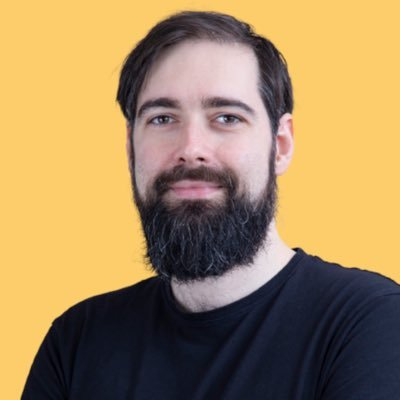
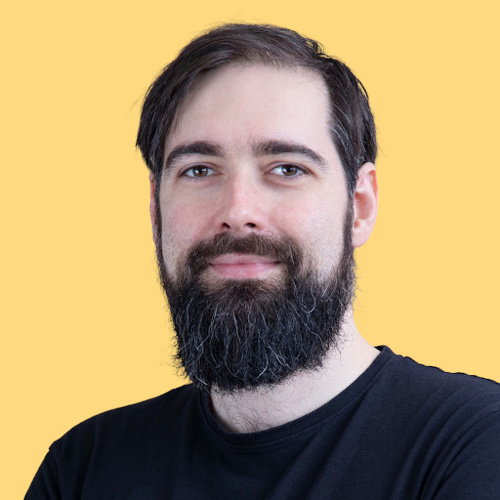
use photo-yellow

diff --git a/about.md b/about.md
@@ -3,7 +3,7 @@ layout: page
 title: About
 ---
 
-![photo](/assets/photo.jpg)
+![photo](/assets/photo-yellow.jpg)
 
 ----
 
